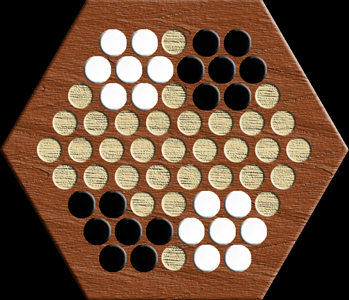
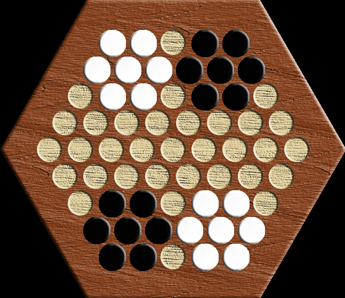
Repositionnement bill config belgin daisy

diff --git a/Abalone/Matrix2D.h b/Abalone/Matrix2D.h
@@ -1,0 +1,168 @@
+#ifndef MATRIX2D_H
+#define MATRIX2D_H
+
+#include "Matrix.h"
+
+typedef struct Matrix2D {
+	unsigned int n, m;
+	Matrix *mat;
+}Matrix2D;
+
+Matrix2D* newEmptyMatrix2D()
+{
+	Matrix2D *m = malloc(sizeof(Matrix2D));
+	m->n = 0;
+	m->m = 0;
+	m->mat = newEmptyMatrix();
+}
+
+Matrix2D* newMatrix2D(unsigned int n, unsigned int m) : Matrix<T>(n*m), m_n(n), m_m(m)
+{
+
+}
+
+void copyMatrix2D(Matrix2D *src, Matrix2D *dst);
+
+Matrix2D* transp(Matrix2D *m)
+{
+	Matrix2D t(m_m, m_n);
+
+	for (unsigned int i = 0; i < m_n; i++)
+		for (unsigned int j = 0; j < m_m; j++)
+			t.m_firstElem[i*t.m_n + j] = m_firstElem[j*m_n + i];
+
+	return t;
+}
+
+Matrix2D& operator+=(Matrix2D &m2)
+{
+	if (m_m != m2.m() || m_n != m2.n())
+		throw std::exception("Dim of Matrix2D incompatible.");
+
+	for (unsigned int i = 0; i < m_n; i++)
+		for (unsigned int j = 0; j < m_m; j++)
+			m_firstElem[j*m_n + i] += m2(i, j);
+
+	return *this;
+}
+Matrix2D& operator/=(T m2)
+{
+	for (unsigned int i = 0; i < m_n; i++)
+		for (unsigned int j = 0; j < m_m; j++)
+			m_firstElem[j*m_n + i] /= m2;
+
+	return *this;
+}
+Matrix2D& operator*=(T m2)
+{
+	for (unsigned int i = 0; i < m_n; i++)
+		for (unsigned int j = 0; j < m_m; j++)
+			m_firstElem[j*m_n + i] *= m2;
+
+	return *this;
+}
+
+virtual void init2D(unsigned int n, unsigned int m)
+{
+	init(n*m);
+	m_n = n;
+	m_m = m;
+}
+
+T& operator()(unsigned int i, unsigned int j)
+{
+	if (m_firstElem + j*m_n + i > m_lastElem)
+		throw std::exception("Out of range in Matrix2D");
+	return m_firstElem[j*m_n + i];
+}
+
+const unsigned int& n()
+{
+	return m_n;
+}
+
+const unsigned int& m()
+{
+	return m_m;
+}
+
+virtual ~Matrix2D()
+{
+	if (m_firstElem != NULL)
+		delete m_firstElem;
+
+	m_firstElem = NULL;
+}
+
+template <typename T>
+Matrix2D<T> operator*(Matrix2D<T> &m1, Matrix2D<T> &m2)
+{
+	if (m1.m() != m2.n())
+		throw std::exception("Dim of Matrix2D incompatible.");
+
+	Matrix2D<T> res(m1.n(), m2.m());
+
+	for (unsigned int i = 0; i < res.n(); i++)
+		for (unsigned int j = 0; j < res.m(); j++)
+			for (unsigned int k = 0; k < m1.m(); k++)
+				res(i, j) += m1(i, k) * m2(k, j);
+
+	return res;
+}
+template <typename T, typename S>
+Matrix2D<T> operator*(S &m1, const Matrix2D<T> &m2)
+{
+	Matrix2D<T> res(m2);
+
+	for (unsigned int i = 0; i < res.n(); i++)
+		for (unsigned int j = 0; j < res.m(); j++)
+			res(i, j) *= m1;
+
+	return res;
+}
+template <typename T>
+Matrix2D<T> operator+(Matrix2D<T> &m1, Matrix2D<T> &m2)
+{
+	if (m1.m() != m2.m() || m1.n() != m2.n())
+		throw std::exception("Dim of Matrix2D incompatible.");
+
+	Matrix2D<T> res(m1.n(), m1.m());
+
+	for (unsigned int i = 0; i < res.n(); i++)
+		for (unsigned int j = 0; j < res.m(); j++)
+			res(i, j) = m1(i, j) + m2(i, j);
+
+	return res;
+}
+template <typename T>
+Matrix2D<T> operator-(Matrix2D<T> &m1, Matrix2D<T> &m2)
+{
+	if (m1.m() != m2.m() || m1.n() != m2.n())
+		throw std::exception("Dim of Matrix2D incompatible.");
+
+	Matrix2D<T> res(m1.n(), m1.m());
+
+	for (unsigned int i = 0; i < res.n(); i++)
+		for (unsigned int j = 0; j < res.m(); j++)
+			res(i, j) = m1(i, j) - m2(i, j);
+
+	return res;
+}
+
+
+template <typename T>
+Matrix2D<T> hadamard(Matrix2D<T> &m1, Matrix2D<T> &m2)
+{
+	if (m1.m() != m2.m() || m1.n() != m2.n())
+		throw std::exception("Dim of Matrix2D incompatible.");
+
+	Matrix2D<T> res(m1.n(), m2.m());
+
+	for (unsigned int i = 0; i < res.n(); i++)
+		for (unsigned int j = 0; j < res.m(); j++)
+			res(i, j) = m1(i, j)*m2(i, j);
+
+	return res;
+}
+
+#endif

diff --git a/Abalone/Matrix.c b/Abalone/Matrix.c
@@ -1,0 +1,71 @@
+#include <stdlib.h>
+#include "Matrix.h"
+
+Matrix* newEmptyMatrix()
+{
+	Matrix* m = malloc(sizeof(Matrix));
+	m->m_firstElem = NULL;
+	m->m_lastElem = NULL;
+}
+
+Matrix* newMatrix(unsigned int size)
+{
+	Matrix *m = newEmptyMatrix();
+	m->m_firstElem = malloc(sizeof(double)*size);
+	m->m_lastElem = m->m_firstElem + size - 1;
+}
+
+void copyMatrix(Matrix *src, Matrix *dst)
+{
+	if (src->m_firstElem != NULL)
+	{
+		dst->m_firstElem = malloc(sizeof(double)*(src->m_lastElem - src->m_firstElem + 1));
+
+		for (unsigned int i = 0; i < src->m_lastElem - src->m_firstElem + 1; i++)
+			dst->m_firstElem[i] = src->m_firstElem[i];
+
+		size_t delta = src->m_lastElem - src->m_firstElem;
+
+		dst->m_lastElem = dst->m_firstElem + delta;
+	}
+}
+
+int lengthMatrix(Matrix *m)
+{
+	return m->m_lastElem - m->m_firstElem + 1;
+}
+
+double firstMatrix(Matrix *m)
+{
+	return *m->m_firstElem;
+}
+
+double lastMatrixElement(Matrix *m)
+{
+	return *m->m_lastElem;
+}
+
+void applyMatrixElement(void(*f)(double *), Matrix *m)
+{
+	for (double* ptr = m->m_firstElem;ptr <= m->m_lastElem;ptr++)
+		(*f)(ptr);
+}
+
+double getMatrixElement(unsigned int index, Matrix *m)
+{
+	if (index < 0 || index >= length(m))
+	{
+		stderrf("Bah index in a Matrix.");
+		assert(0);
+	}
+
+	return m->m_firstElem[index];
+}
+
+void deleteMatrix(Matrix *m)
+{
+	if (m->m_firstElem != NULL)
+		free(m->m_firstElem);
+
+	m->m_firstElem = NULL;
+}

diff --git a/Abalone/Matrix2D.c b/Abalone/Matrix2D.c
@@ -1,0 +1,28 @@
+#include <stdlib.h>
+#include "Matrix2D.h"
+
+void copyMatrix2D(Matrix2D *src, Matrix2D *dst)
+{
+	dst->n = src->n;
+	dst->m = src->m;
+
+	if (length(dst->mat) == length(src->mat))
+	{
+		for (unsigned int i = 0; i < length(dst->mat); i++)
+			dst->mat->m_firstElem[i] = src->mat->m_firstElem[i];
+	}
+	else
+	{
+		if (dst->mat->m_firstElem != NULL)
+			free(dst->mat->m_firstElem);
+
+		dst->mat->m_firstElem = malloc(sizeof(double)*(src->mat->m_lastElem - src->mat->m_firstElem + 1);
+
+		for (unsigned int i = 0; i < m.m_lastElem - m.m_firstElem + 1; i++)
+			dst->mat->m_firstElem[i] = src->mat->m_firstElem[i];
+
+		size_t delta = dst->mat->m_lastElem - dst->mat->m_firstElem;
+
+		dst->mat->m_lastElem = dst->mat->m_firstElem + delta;
+	}
+}

diff --git a/Abalone/AbaloneBoard.c b/Abalone/AbaloneBoard.c
@@ -20,7 +20,7 @@ int defaultBoard[SIZE][SIZE] = {
 int belgianDaisyBoard[SIZE][SIZE] = {
 	{ BLACK, BLACK, NO_BALL, WHITE, WHITE, OUT_ZONE, OUT_ZONE, OUT_ZONE, OUT_ZONE },
 	{ BLACK, BLACK, BLACK, WHITE, WHITE, WHITE, OUT_ZONE, OUT_ZONE, OUT_ZONE },
-	{ BLACK, BLACK, NO_BALL, NO_BALL, WHITE, WHITE, NO_BALL, OUT_ZONE, OUT_ZONE },
+	{ NO_BALL, BLACK, BLACK, NO_BALL, WHITE, WHITE, NO_BALL, OUT_ZONE, OUT_ZONE },
 	{ NO_BALL, NO_BALL, NO_BALL, NO_BALL, NO_BALL, NO_BALL, NO_BALL, NO_BALL, OUT_ZONE },
 	{ NO_BALL, NO_BALL, NO_BALL, NO_BALL, NO_BALL, NO_BALL, NO_BALL, NO_BALL, NO_BALL },
 	{ OUT_ZONE, NO_BALL, NO_BALL, NO_BALL, NO_BALL, NO_BALL, NO_BALL, NO_BALL, NO_BALL },
